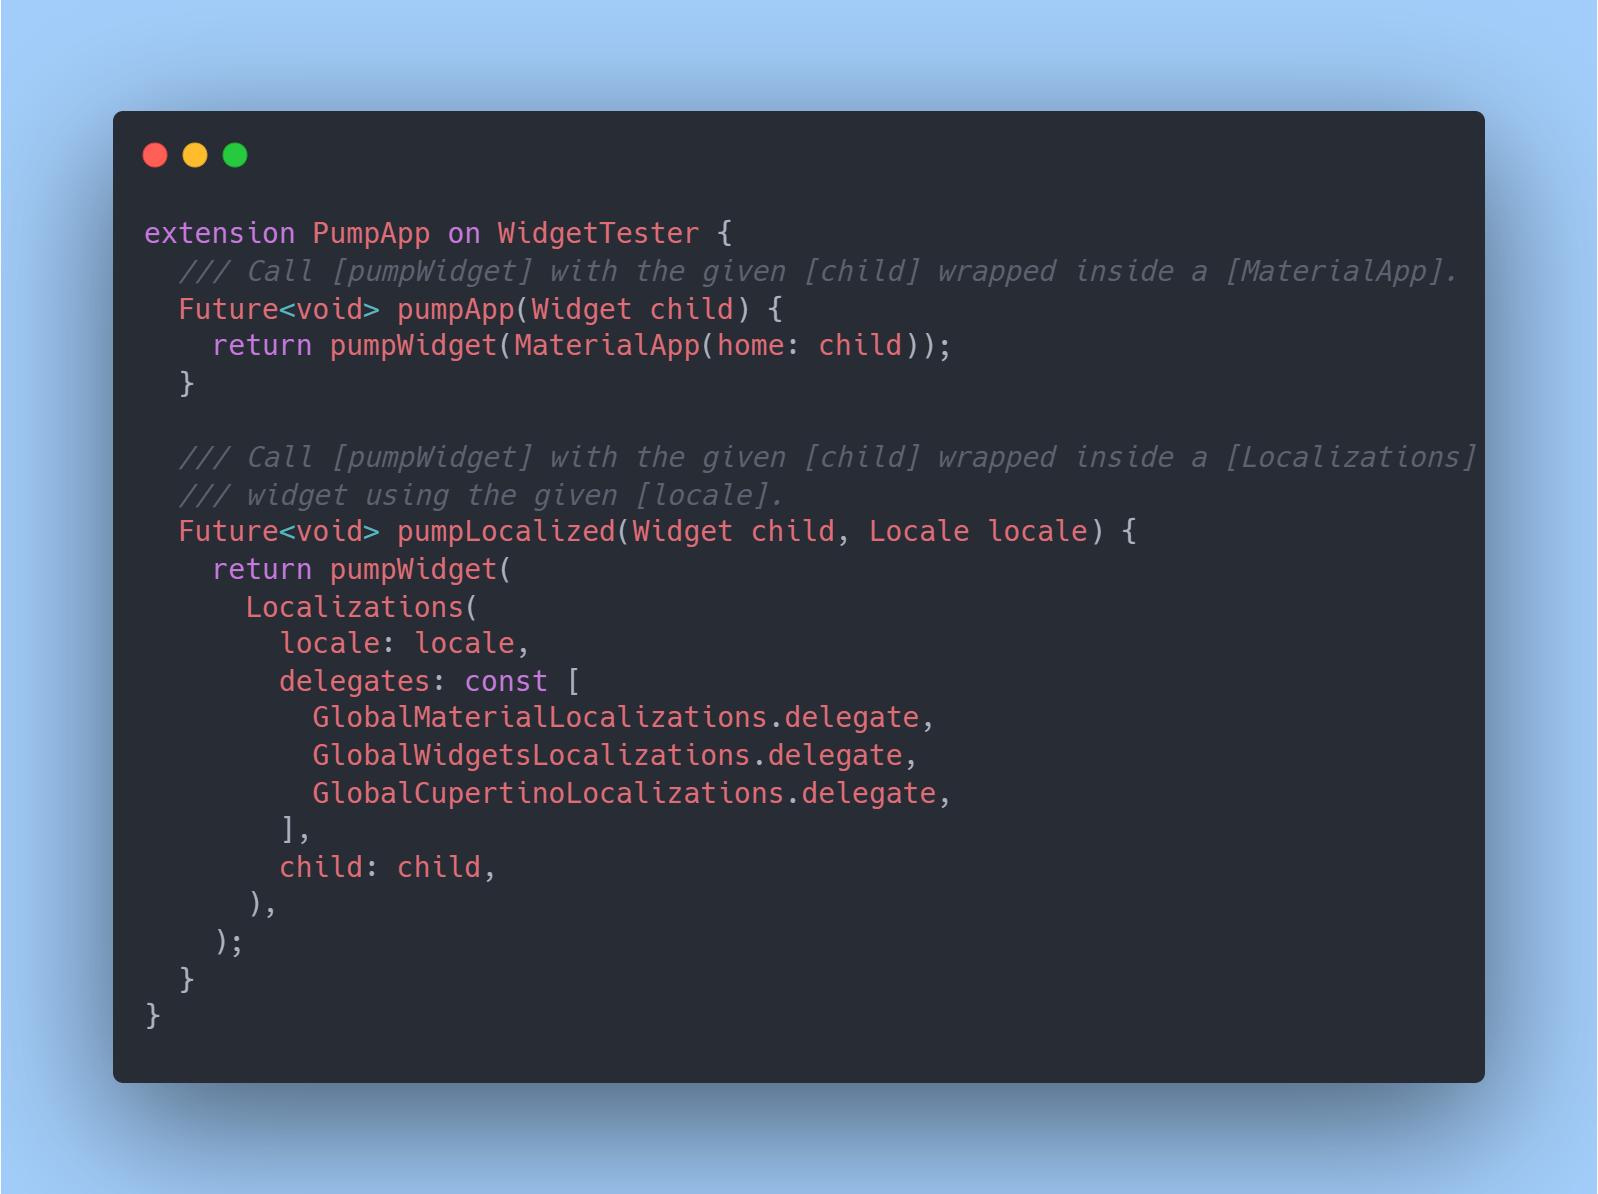
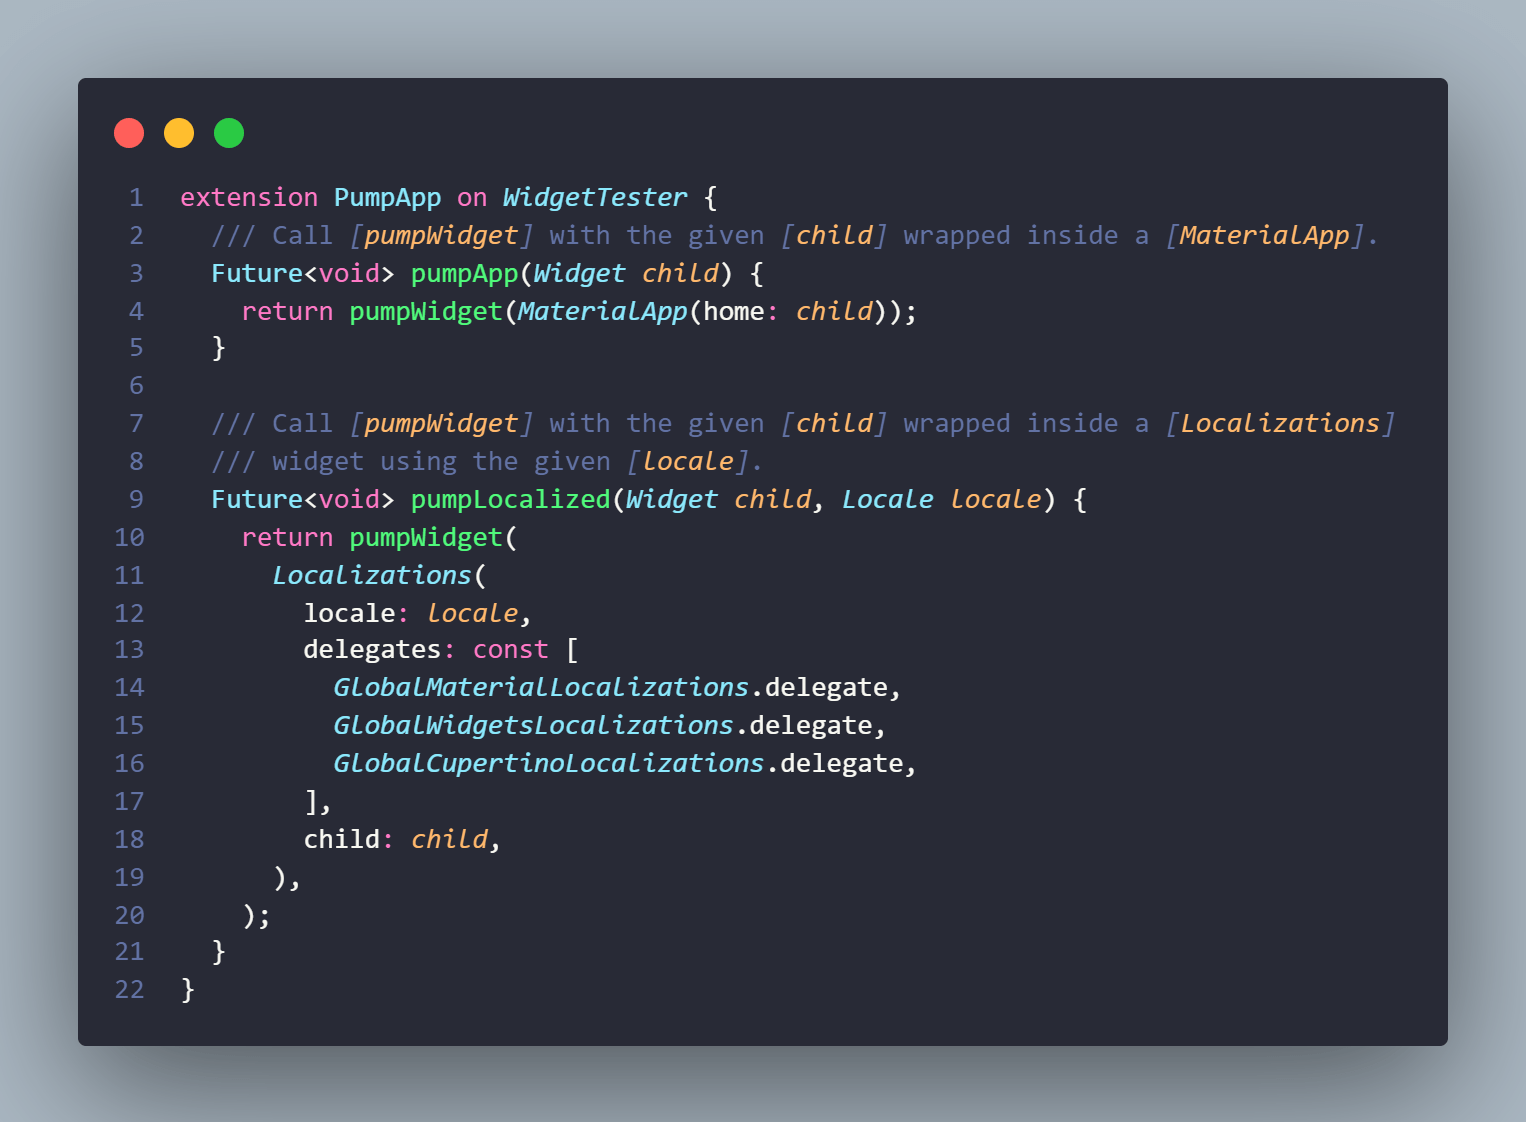
added pump app tester

diff --git a/README.md b/README.md
@@ -6,6 +6,7 @@ Some tips and tricks in Flutter & Dart.
 
 # Table of Contents
 
+* [Pump App Tester](#pump-app-tester)
 * [Safe Complete](#safe-complete)
 * [Stream Converter](#stream-converter)
 * [String contains diacritics insensitive](#string-contains-diacritics-insensitive)
@@ -13,6 +14,12 @@ Some tips and tricks in Flutter & Dart.
 * [Compare two versions](#compare-two-versions)
 * [Benchmark async method](#benchmark-async-method)
 * [JSON decoding](#json-decoding)
+
+# Pump App Tester
+
+[Source Code](source/pump_app_tester.dart)
+
+![](images/pump_app_tester.png)
 
 # Safe Complete
 
